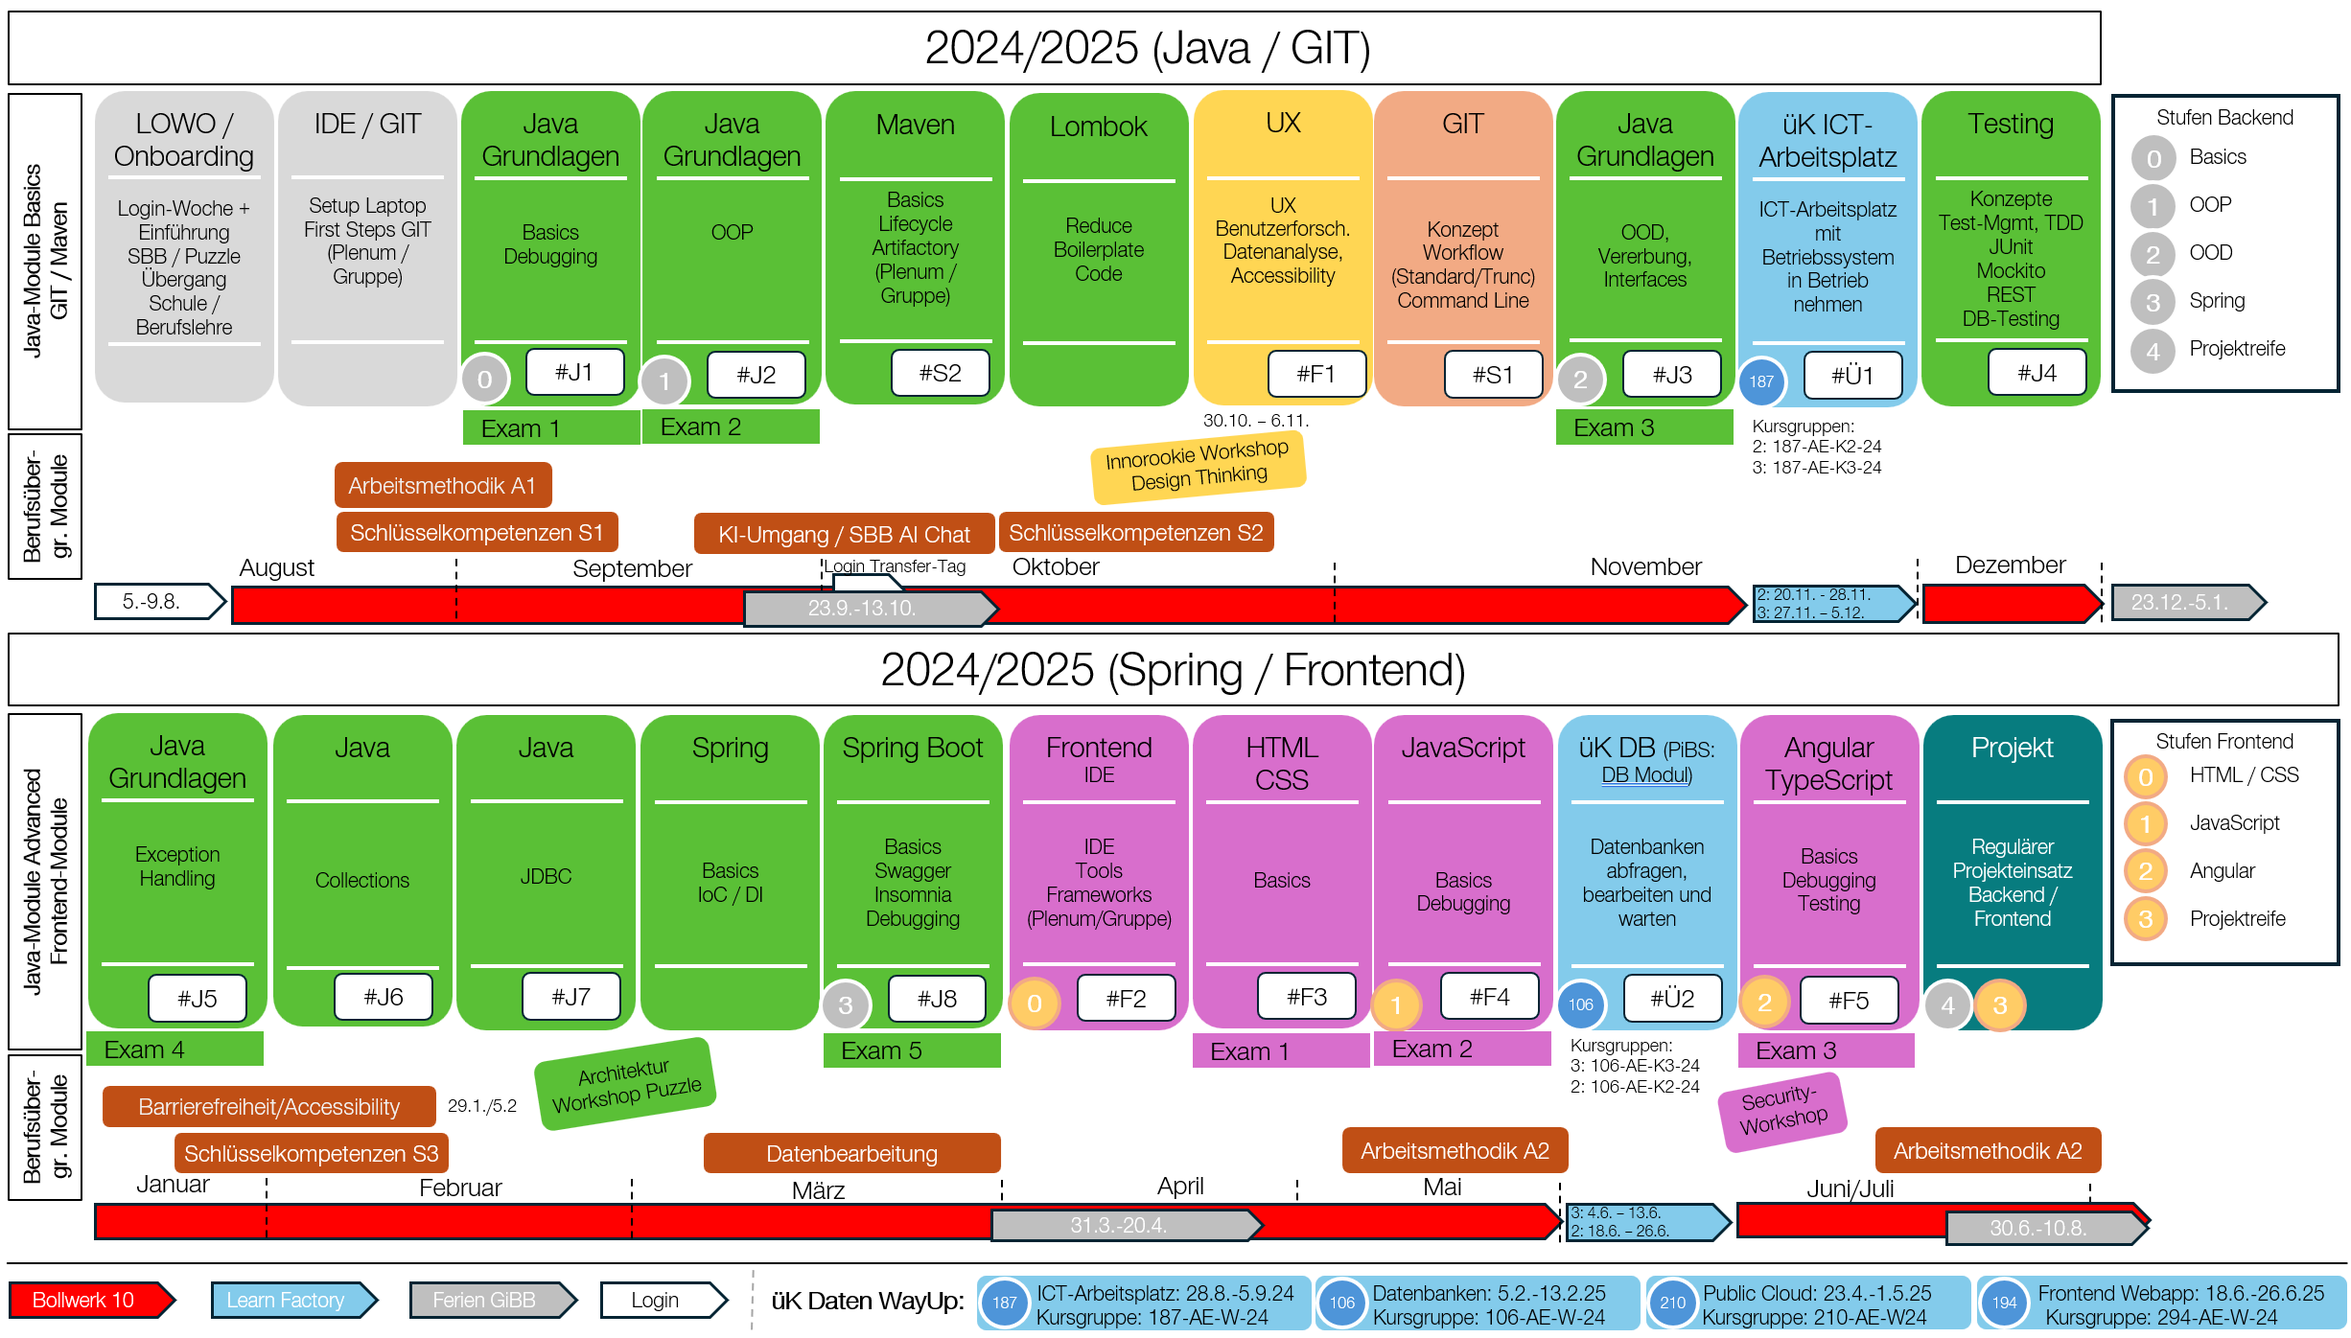
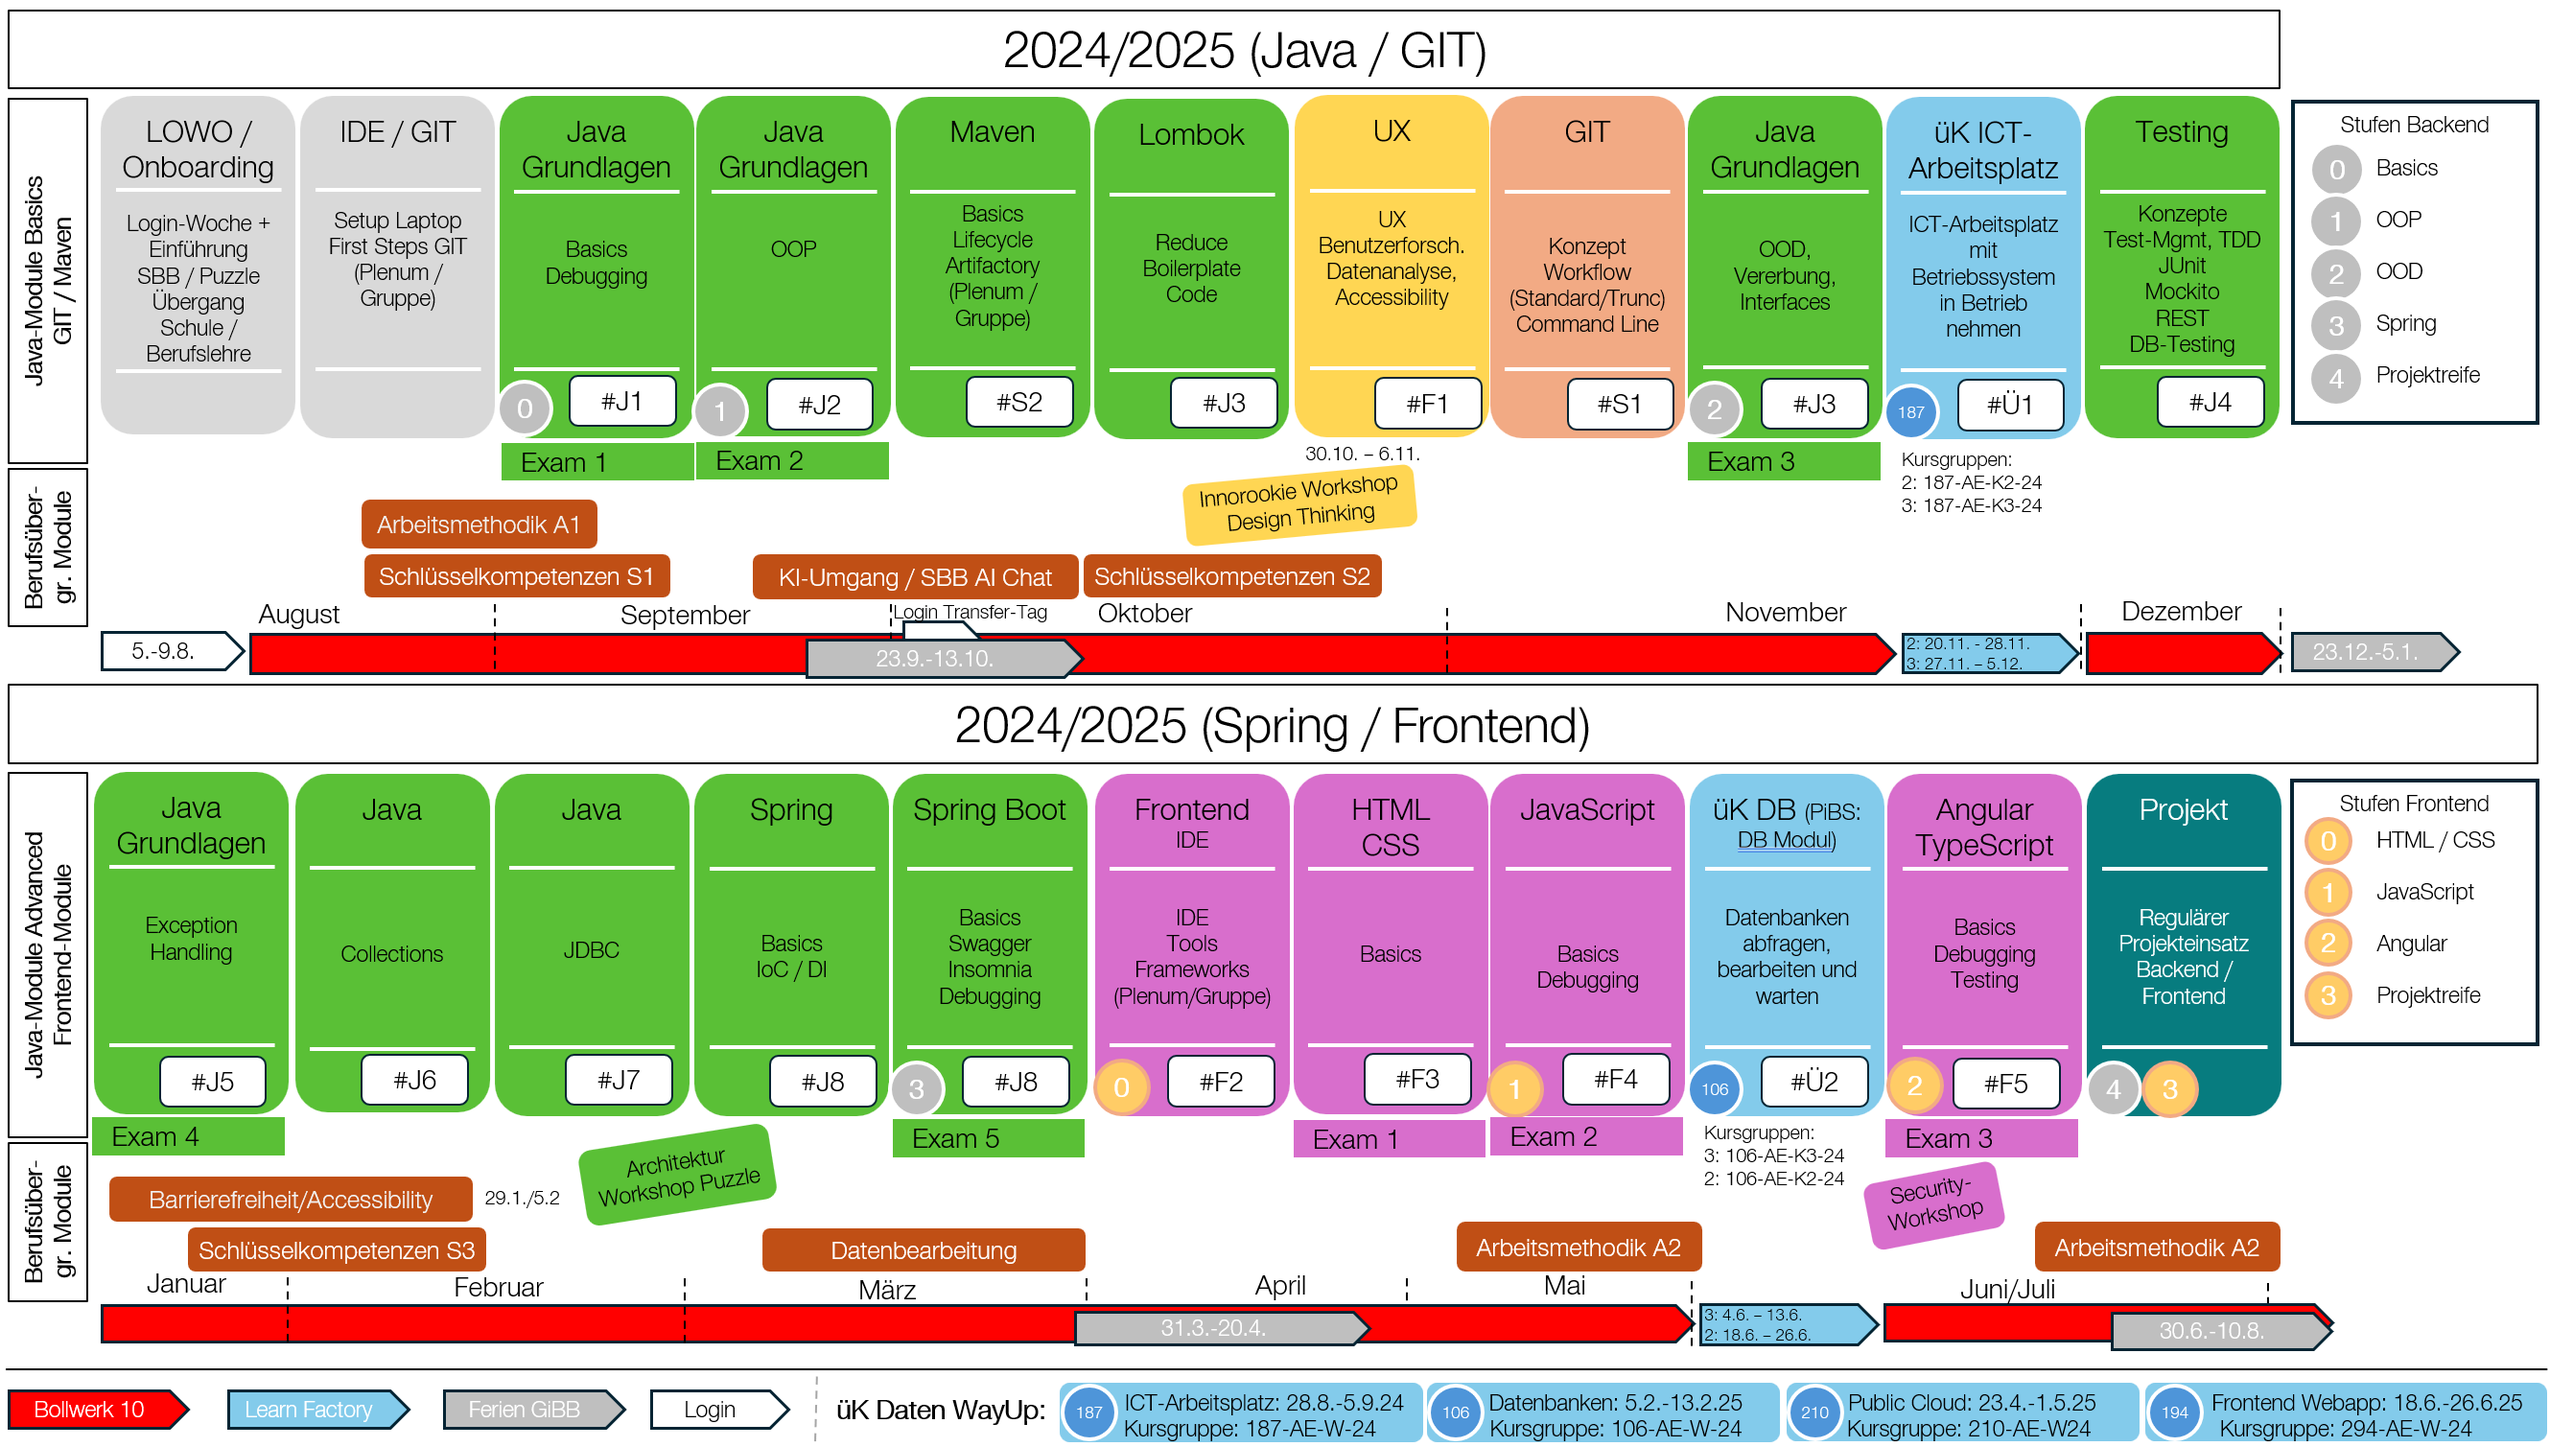
feature(refactor-overview): small fixes on module numbers with new correct ones (incl. overview)

diff --git a/content/en/docs/_index.md b/content/en/docs/_index.md
@@ -34,11 +34,11 @@ Berufsübergreifende Module finden in Form von Workshops und Erfahrungstransfers
 
 ### Absprung zu den Debugging-Seiten
 
-- [Debugging von Java Code in IntelliJ](../../../../docs/java/java-grundlagen/debugging).
-- [Frontend-Debugging](../../../../docs/web/javascript/24_debugging/).
+- [Debugging von Java Code in IntelliJ](../../../../docs/java/java-grundlagen/debugging)
+- [Frontend-Debugging](../../../../docs/web/javascript/24_debugging/)
 
 ### Absprung zu den Testing-Seiten
 
 - [Testing Konzepte / JUnit / Mockito](../../../../docs/java/java-testing/)
-- [Rest-Schnittstellen testen](../../../../docs/java/java-rest-testing/).
-- [Angular Testfiles](../../../../docs/web/angular/02_7_angular_unit_test/).
+- [Rest-Schnittstellen testen](../../../../docs/java/java-rest-testing/)
+- [Angular Testfiles](../../../../docs/web/angular/02_7_angular_unit_test/)

diff --git a/content/en/docs/testing/_index.md b/content/en/docs/testing/_index.md
@@ -10,5 +10,5 @@ description: >
 Diese Seite soll als Landing Page dienen und den Absprung zu den verschiedenen Testing-Seiten erleichtern.
 
 - [Testing Konzepte / JUnit / Mockito](../../../../docs/java/java-testing/)
-- [Rest-Schnittstellen testen](../../../../docs/java/java-rest-testing/).
-- [Angular Testfiles](../../../../docs/web/angular/02_7_angular_unit_test/).
+- [Rest-Schnittstellen testen](../../../../docs/java/java-rest-testing/)
+- [Angular Testfiles](../../../../docs/web/angular/02_7_angular_unit_test/)

diff --git a/content/en/docs/debugging/_index.md b/content/en/docs/debugging/_index.md
@@ -9,5 +9,5 @@ description: >
 
 Diese Seite soll als Landing Page dienen und den Absprung zu den verschiedenen Debugging-Seiten erleichtern.
 
-- [Debugging von Java Code in IntelliJ](../../../../docs/java/java-grundlagen/debugging).
-- [Frontend-Debugging](../../../../docs/web/javascript/24_debugging/).
+- [Debugging von Java Code in IntelliJ](../../../../docs/java/java-grundlagen/debugging)
+- [Frontend-Debugging](../../../../docs/web/javascript/24_debugging/)

diff --git a/content/en/docs/java/lombok.md b/content/en/docs/java/lombok.md
@@ -3,7 +3,7 @@ title: "Lombok"
 linkTitle: "Lombok"
 weight: 6
 description: >
-  Vor- und Nachteile von Lombok
+  Module J#3 - Vor- und Nachteile von Lombok
 ---
 
 Lombok ist ein Java-Library, welche die Entwicklung von Java-Anwendungen erleichtert, indem sie die Erstellung von Standardcode reduziert, insbesondere für Getter, Setter, Konstruktoren und andere repetitive Teile des Codes.

diff --git a/content/en/docs/java/java-rest-testing.md b/content/en/docs/java/java-rest-testing.md
@@ -3,7 +3,7 @@ title: "Testing von REST-Schnittstellen"
 linkTitle: "Testing von REST-Schnittstellen"
 weight: 16
 description: >
-  Modul #J8 - Spring Boot
+  Modul #J8 - Testing von REST-Schnittstellen
 ---
 
 Wenn du ein Backend schreibst - was du mit Spring in den meisten Fällen tust, dann möchtest du deinen Code auch ausführen können.

diff --git a/content/en/docs/java/entwicklungsumgebung.md b/content/en/docs/java/entwicklungsumgebung.md
@@ -3,7 +3,7 @@ title: "Entwicklungsumgebung einrichten"
 linkTitle: "Entwicklungsumgebung einrichten"
 weight: 1
 description: >
-  Modul #O4 - Entwicklungsumgebung
+  Modul Entwicklungsumgebung einrichten
 ---
 
 #### Ziele

diff --git a/content/en/docs/java/intellij-einrichten.md b/content/en/docs/java/intellij-einrichten.md
@@ -3,7 +3,7 @@ title: "IntelliJ IDEA einrichten"
 linkTitle: "IntelliJ IDEA - einrichten"
 weight: 2
 description: >
-  Modul #O4 - IntelliJ
+  Modul - IntelliJ IEAD einrichten
 ---
 
 #### Ziele

diff --git a/content/en/docs/java/rest-endpoints.md b/content/en/docs/java/rest-endpoints.md
@@ -3,6 +3,7 @@ title: "REST-Endpoints"
 linkTitle: "REST-Endpoints"
 weight: 15
 description: >
+  Modul #J8 - REST-Endpoints
 ---
 
 ## Was ist REST
